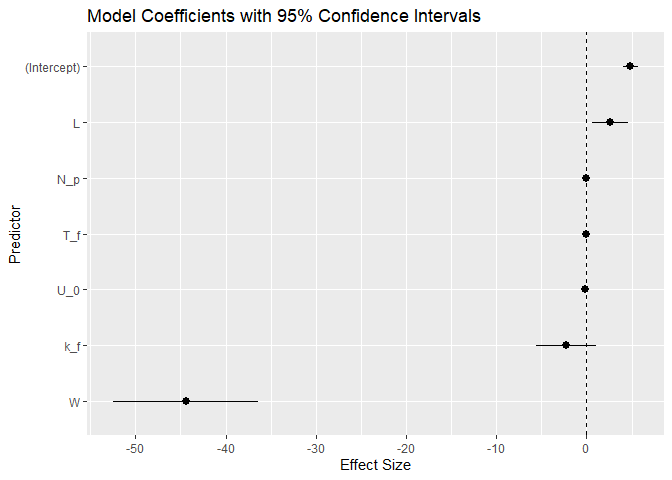
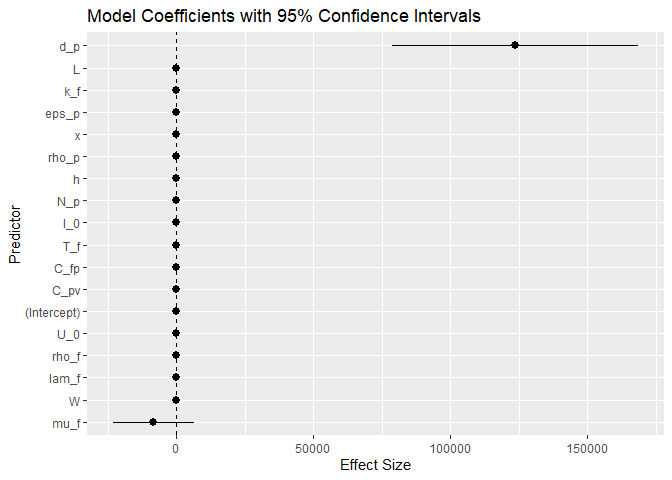
Corrections challenge 11

diff --git a/challenges/c11-psaap-assignment.md b/challenges/c11-psaap-assignment.md
@@ -405,7 +405,7 @@ fitting. So `T_norm ~ . - x` would fit on all columns *except* `x`.
 fit_q4 <- 
   df_train %>% 
   # lm(formula = T_norm ~ . - idx - avg_q - avg_T - rms_T)
-  lm(formula = T_norm ~ L + W + U_0 + N_p + k_f + T_f)
+  lm(formula = T_norm ~ . - idx - avg_q - avg_T - rms_T)
   # lm(formula = T_norm ~ L - W - U_0 - N_p - k_f - T_f)
 
 tidy(fit_q4) %>% 
@@ -427,12 +427,16 @@ summary(fit_q4)$coefficients %>%
   filter(`Pr(>|t|)` < 0.05)  # Significant if p-value < 0.05
 ```
 
-    ## # A tibble: 3 × 5
-    ##   predictor    Estimate `Std. Error` `t value`  `Pr(>|t|)`
-    ##   <chr>           <dbl>        <dbl>     <dbl>       <dbl>
-    ## 1 (Intercept)   4.88         0.834        5.86 0.000000126
-    ## 2 W           -44.4          8.03        -5.53 0.000000467
-    ## 3 T_f          -0.00478      0.00115     -4.15 0.0000874
+    ## # A tibble: 7 × 5
+    ##   predictor Estimate `Std. Error` `t value` `Pr(>|t|)`
+    ##   <chr>        <dbl>        <dbl>     <dbl>      <dbl>
+    ## 1 x          1.02e+0      5.61e-2     18.2    1.66e-26
+    ## 2 L          3.96e+0      9.36e-1      4.23   7.81e- 5
+    ## 3 W         -3.71e+1      6.39e+0     -5.81   2.33e- 7
+    ## 4 U_0       -3.26e-1      1.14e-1     -2.87   5.63e- 3
+    ## 5 C_fp      -6.59e-4      3.20e-4     -2.06   4.39e- 2
+    ## 6 d_p        1.24e+5      4.49e+4      2.75   7.76e- 3
+    ## 7 I_0        1.60e-7      4.29e-8      3.73   4.13e- 4
 
 ``` r
 df_psaap %>% 
@@ -449,46 +453,39 @@ df_psaap %>%
 - Which columns are excluded in the model formula above? What categories
   do these belong to? Why are these important quantities to leave out of
   the model?
-  - idx, avg_q, avg_T, rms_t and x are notably excluded. They are all
-    non-inputs (outputs, spatial and metadata). They are important to
-    leave out because they either are outputs that create circular
-    reasoning, or they’re factors that do not have a physical meaning.
+  - idx, avg_q, avg_T, rms_T are all removed from the mode. idx is
+    removed as it just an identifer for each obsercation. The other 3
+    are likley predictors that are highly correlated with other
+    variables in out data and so exclusion reduces multicollinarity.
 - Which inputs are *statistically significant*, according to the model?
-  - Intercept, W, and T_f are statistically significant according to the
-    model
+  - According to the mode x, L, W, U_0, C_fp, d_p and I_0 are all
+    statistically signficant.
 - What is the regression coefficient for `x`? What about the regression
   coefficient for `T_f`?
-  - x does not appear to have a regression coefficient. T_f’s regression
-    coefficient is -0.004783458.
+  - x = 1.0183
+  - T_f does not have one
 - What is the standard deviation of `x` in `df_psaap`? What about the
   standard deviation of `T_f`?
-  - The standard deviation of x is 0.2805121, and Tf is 38.94204
+  - standard devation of x is 0,2805 and the SD for T_f is 38.9420
 - How do these standard deviations relate to the regression coefficients
   for `x` and `T_f`?
-  - The standard deviations tell us their natural variability. The
-    regression coefficient tells us the effect per unit change. Their
-    practical effect can be measured by multiplying the SD by the
-    coefficient. While T_f has a high fluctuation, its coefficient
-    results in a low impact. On the other hand, x has no coefficient so
-    it would hypothetically be one. Comparing x, which has an impact of
-    0.28 units (1.0 x 0.28) to T_norm (-0.00478 \* 38.94) with an effect
-    of -0.186 units. x dominates the model.
+  - The effect of X is 1.0183 (x) x 0.2805 (SD of x) = 0.2855 or a
+    roughly 1SD in x leads to a 0.29 change increase in T_norm
+  - T_f was excluded so no regression coefficient was esimated. It has a
+    large SD of 28,94 which suggest it has a large amount of variation.
 - Note that literally *all* of the inputs above have *some* effect on
   the output `T_norm`; so they are all “significant” in that sense. What
   does this tell us about the limitations of statistical significance
   for interpreting regression coefficients?
-  - Statistical significance may not equal real-world importance. W, for
-    example, has a p \< 0.05 but only changes T_norm very little.
-    P-values only test to see if it has an effect not it’s size or
-    importance.
-  - Insignficant predictors like T_f and k_f may matter physically, but
-    in the data end up correlating with other variables and overlapping
-    their effects on the model
-  - Excluded variables like x may not be represented in the model but
-    dominate the system.
-  - SD and Regression coefficients depend on units and must be
-    considered together as with T_f with a low coefficient still has a
-    large impact due to its SD.
+  - statisitcal signiiance only tells us that an effect is liekly due to
+    change
+  - It does not tell us the practical importance of a predictors like
+    c_fp which is statistically significant but has a tiny effect
+  - A large coefficient may not be statistically signficiant if its
+    uncertainty is high
+  - The predictors here are all statistically significant shows that the
+    sample size may be large but does not mean the predictors are all
+    equally important or useful for using the model to make predictions
 
 ## Contrasting CI and PI
 
@@ -634,18 +631,17 @@ bind_rows(
 
 - Which model tends to be more accurate? How can you tell from this
   predicted-vs-actual plot?
-  - The predicted tends to be more accurate because, taking a look at
-    the dots with their confidence intervals, there are more that miss
-    the trend line on the actual plot.
+  - The left panel model seems to be more accurate as the values are
+    less scattered.
 - Which model tends to be *more confident* in its predictions? Put
   differently, which model has *narrower prediction intervals*?
-  - It seems that the actual one has more confidence in it’s predictions
-    as the predicted T-norm has less potential values it could be or
-    more narrow prediction intervals.
+  - the q4 only model is more confident as the vertical bars in the
+    right panel are consistnelty more narrow than those on the left.
+    This means that the x only has less uncertainty in its predictions
+    on new data.
 - How many predictors does the `fit_simple` model need in order to make
   a prediction? What about your model `fit_q4`?
-  - fit_simple needs just x intercepts while fit_q4 needs 6 ( L, W, U_0.
-    N_p, k_f, T_f)
+  - it would need 7 predictor of x L W U_0 c_fp d_p and I_0
 
 Based on these results, you might be tempted to always throw every
 reasonable variable into the model. For some cases, that might be the
@@ -708,23 +704,39 @@ pr_level <- 0.8
 #        make a recommendation on a *dependable range* of values for T_norm
 #        at the point `df_design`
 
-# Controllable/measurable variables + key physics
+## Fit a model with the key controllable variables
 fit_q6 <- lm(T_norm ~ x + L + W + U_0, data = df_train)
 
-# 80% prediction intervals (PI) for the design point
-df_design <- df_design %>% 
-  add_uncertainties(fit_q6, interval = "prediction", 
-                    level = pr_level, prefix = "pi")
+## Get prediction interval for the design point
+design_pred <- predict(fit_q6, newdata = df_design, 
+                      interval = "prediction", level = pr_level) %>% 
+  as_tibble() %>% 
+  rename(T_norm_pred = fit, pi_lwr = lwr, pi_upr = upr)
 
-# Calculate PI for validation data and check coverage
-df_validate <- df_validate %>%
-  add_uncertainties(fit_q6, interval = "prediction", 
-                    level = pr_level, prefix = "pi")
+## Check coverage on validation data
+validation_pred <- predict(fit_q6, newdata = df_validate, 
+                          interval = "prediction", level = pr_level) %>% 
+  as_tibble() %>% 
+  rename(T_norm_pred = fit, pi_lwr = lwr, pi_upr = upr) %>% 
+  bind_cols(df_validate %>% select(T_norm))
 
-# Fraction of validation points within PI
-coverage <- mean(df_validate$T_norm >= df_validate$pi_lwr & 
-                 df_validate$T_norm <= df_validate$pi_upr)
+# Calculate coverage rate
+coverage_rate <- mean(validation_pred$T_norm >= validation_pred$pi_lwr & 
+                      validation_pred$T_norm <= validation_pred$pi_upr)
+
+design_pred
 ```
+
+    ## # A tibble: 1 × 3
+    ##   T_norm_pred pi_lwr pi_upr
+    ##         <dbl>  <dbl>  <dbl>
+    ## 1        1.88   1.46   2.30
+
+``` r
+coverage_rate
+```
+
+    ## [1] 0.9333333
 
 **Recommendation**:
 
@@ -746,10 +758,14 @@ coverage <- mean(df_validate$T_norm >= df_validate$pi_lwr &
   around?
   - they should design around x = 1, L = 0.2, W = 0.04, U_0 = 1.0, that
     we were given as it is likely that this model covers more than the
-    required amount (80%) of values to account for.
+    required amount (80%) of values to account for. This means a T_norm
+    value between 1.45685 and 2.296426
 - Are there any other recommendations you would provide?
-  - I would suggest using a lower PI value so that the model can be less
-    conservative and cover closer to 80% as the goal.
+  - Keep the current 80% prediction interval (PI): The model’s coverage
+    of 93.3% is beneficial, as it provides a more conservative and safer
+    range for T_norm, which is crucial for avoiding potential damage to
+    equipment. It’s better to overestimate uncertainty than to risk
+    missing critical variations.
 
 *Bonus*: One way you could take this analysis further is to recommend
 which other variables the design team should tightly control. You could
